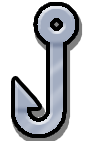
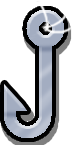
fancy craft window for fisher

diff --git a/jobs/fisher/skin/workshop.less b/jobs/fisher/skin/workshop.less
@@ -5,12 +5,26 @@
 		background-image: url('/stonehearth/jobs/carpenter/skin/skin.png');
 	}
 
+	#details {
+		background-image: none;
+	}
+	#recipeTab{
+		.decor {
+			background: url('fishing_line.png');
+			width: 429px;
+			height: 585px;
+			left: 706px;
+			top: -15px;
+			display: block;
+		}
+	}
+
 	#craftButton {
 		position: absolute;
-		right: 10px;
-		top: -30px;
-		width: 90px;
-		height: 141px;
+		right: 11px;
+		top: -34px;
+		width: 78px;
+		height: 145px;
 		#craftButtonImage {
 			background: url('hook.png');
 		}
